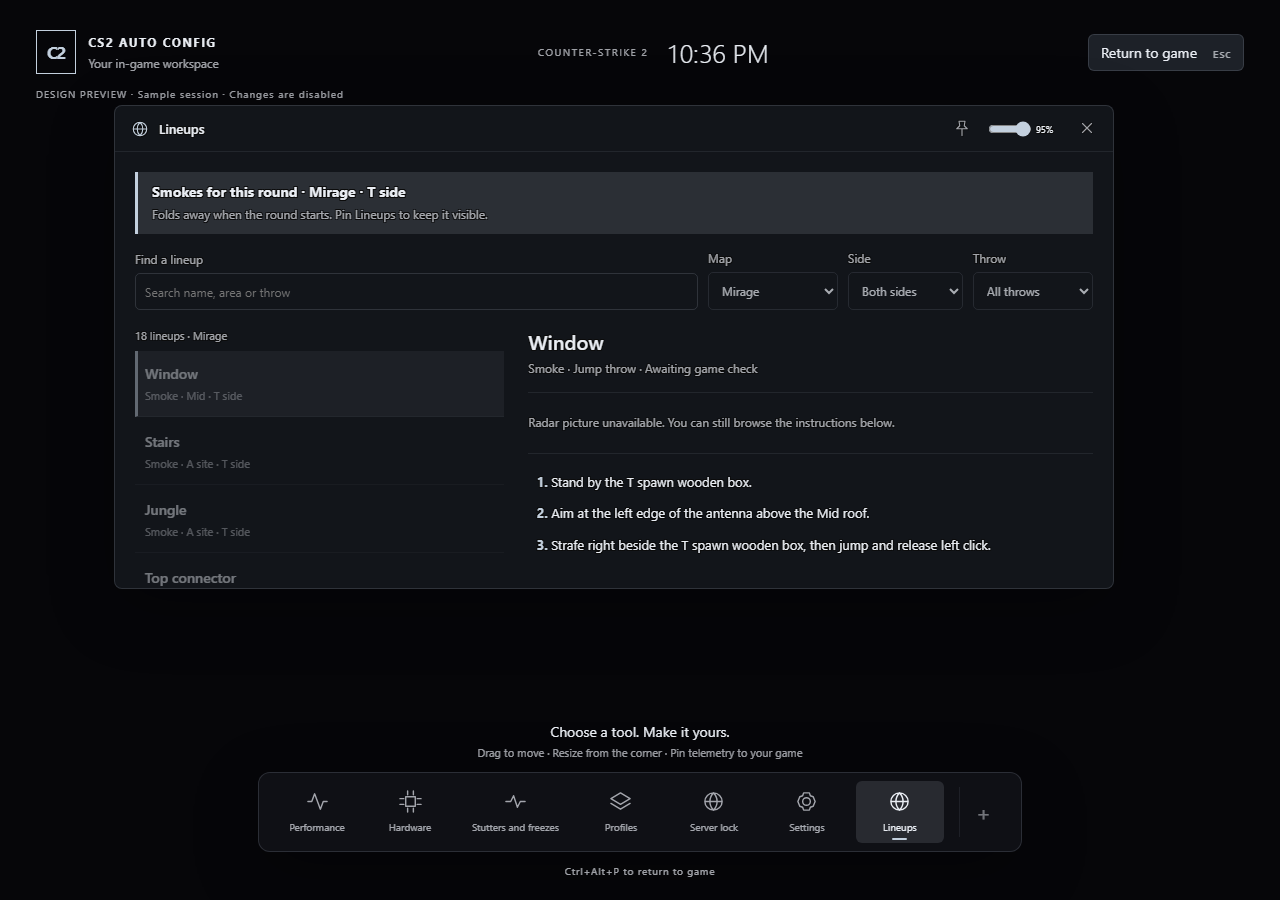
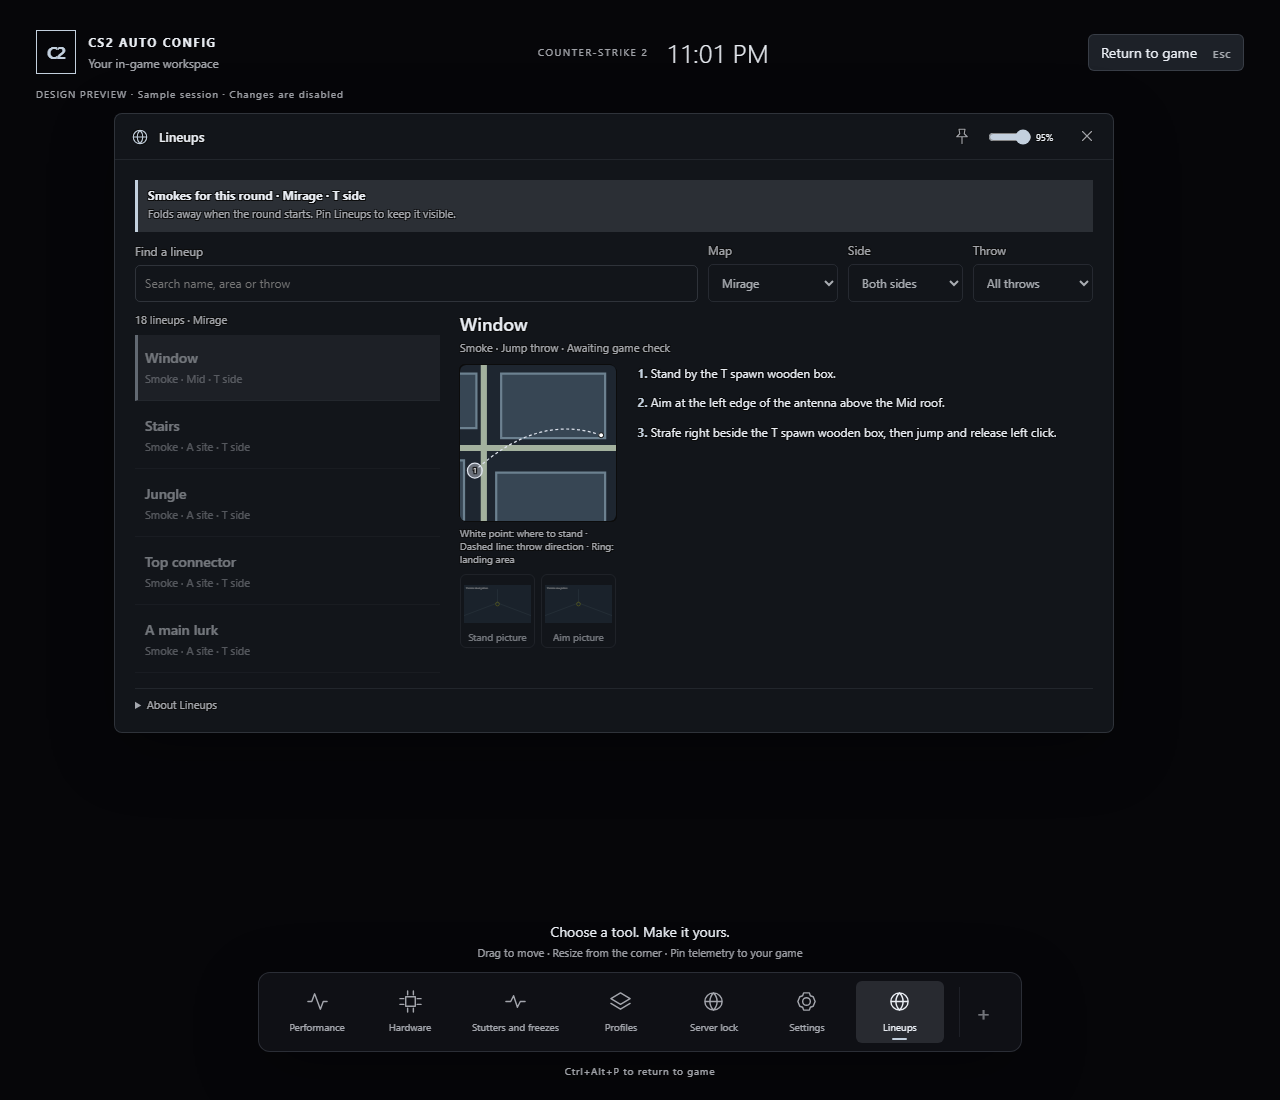
Lineups: card fits its panel; radar beside steps, picture thumbnails

diff --git a/cs2cfg/web/assets/overlay/tools/lineups.css b/cs2cfg/web/assets/overlay/tools/lineups.css
@@ -1,4 +1,28 @@
 .lineups-controls{display:grid;grid-template-columns:minmax(150px,1fr) 130px 115px 120px;gap:10px;align-items:end;margin-bottom:18px}.lineups-controls label{margin:0;display:grid;gap:6px}.lineups-controls input{height:37px}.lineups-grid{display:grid;grid-template-columns:minmax(180px,.85fr) minmax(240px,1.3fr);gap:24px;align-items:start}.lineups-results{display:grid;gap:2px;max-height:420px;overflow:auto}.lineup-row{text-align:left;border:0;border-bottom:1px solid var(--line-soft);border-radius:0;padding:13px 10px;line-height:1.4}.lineup-row[aria-pressed=true]{background:var(--accent-dim)!important;border-left:3px solid var(--accent);padding-left:7px}.lineup-row strong{display:block;font-size:14px;font-weight:600}.lineup-row small{display:block;color:var(--muted);font-size:11px;margin-top:4px}.lineup-detail h4{font-size:20px;margin:0 0 4px;font-weight:600}.lineup-detail .lineup-meta{margin:0 0 14px}.lineup-radar{width:100%;max-height:300px;aspect-ratio:1;display:block;background:var(--bg);border-radius:6px}.lineup-detail ol{padding-left:23px;margin:18px 0;display:grid;gap:12px;line-height:1.5;font-size:13px}.lineup-detail li::marker{color:var(--accent);font-weight:700}.lineup-empty-art{padding:20px 0;border-top:1px solid var(--line-soft);border-bottom:1px solid var(--line-soft)}.lineup-count{font-size:11px;color:var(--muted);margin:0 0 8px}.lineups-about{border-top:1px solid var(--line-soft);margin-top:16px;padding-top:12px;font-size:11px;color:var(--muted)}.lineup-round{border-left:3px solid var(--accent);padding:10px 14px;margin-bottom:16px;background:var(--accent-dim)}.lineup-round strong{display:block;margin-bottom:4px}.lineup-round p{margin:0}.lineup-round button{margin-top:8px}@container(max-width:650px){.lineups-controls{grid-template-columns:1fr 1fr}.lineups-grid{grid-template-columns:1fr}.lineups-results{max-height:190px}.lineup-radar{max-height:260px}}
 
 .lineup-detail{min-width:0;max-height:420px;overflow:auto}.lineup-detail .lineup-radar{width:min(100%,240px);height:auto;max-height:none;aspect-ratio:1;margin:auto}.lineup-detail .lineup-radar+p{font-size:11px;line-height:1.4}
-.lineup-picture-status:empty{display:none}.lineup-picture-status{color:var(--accent);margin:0 0 8px}.lineup-pictures{display:flex;gap:10px}.lineup-thumbnail{padding:3px;flex:1;min-width:0;font-size:11px}.lineup-thumbnail img{width:100%;height:70px;object-fit:contain;display:block}.lineup-picture-large{max-width:90vw;max-height:90vh;background:var(--bg);color:var(--text);border:1px solid var(--accent)}.lineup-picture-large img{display:block;max-width:85vw;max-height:78vh}.lineup-picture-large::backdrop{background:#000b}
+.lineup-picture-status:empty{display:none}.lineup-picture-status{color:var(--accent);margin:0 0 8px}.lineup-pictures{display:flex;gap:10px}.lineup-thumbnail{padding:3px;flex:1;min-width:0;font-size:11px}.lineup-thumbnail img{width:100%;height:70px;object-fit:contain;display:block}.lineup-picture-large{max-width:90vw;max-height:90vh;background:var(--bg);color:var(--ink);border:1px solid var(--accent)}.lineup-picture-large img{display:block;max-width:85vw;max-height:78vh}.lineup-picture-large::backdrop{background:#000b}
+/* Keep the default panel's complete detail in view; only the catalogue scrolls. */
+[data-tool="lineups"] .tool-body{display:flex;flex-direction:column;gap:10px}
+.lineups-controls{margin:0;flex-shrink:0}
+.lineups-grid{grid-template-columns:minmax(220px,.65fr) minmax(440px,1.35fr);gap:20px;flex:1;min-height:0;align-items:stretch}
+.lineups-grid>div:first-child{display:flex;flex-direction:column;min-height:0}
+.lineups-results{max-height:none;min-height:0;overflow:auto}
+.lineup-detail{max-height:none;overflow:visible;min-width:0}
+.lineup-detail h4{font-size:18px}
+.lineup-detail .lineup-meta{font-size:11px;margin:0 0 10px;line-height:1.4}
+.lineup-detail-body{display:grid;grid-template-columns:156px minmax(0,1fr);gap:16px;align-items:start}
+.lineup-detail .lineup-radar{width:156px;height:156px;max-height:none;margin:0}
+.lineup-detail .lineup-radar+p{font-size:10px;line-height:1.3;margin:6px 0}
+.lineup-detail ol{margin:0;padding-left:19px;font-size:12px;line-height:1.45;gap:12px}
+.lineup-empty-art{font-size:11px;padding:8px 0;margin:0!important}
+.lineup-pictures{gap:6px;margin-top:8px}
+.lineup-thumbnail img{height:52px}
+.lineup-thumbnail{font-size:10px}
+.lineups-about{margin:0;padding-top:8px;flex-shrink:0}
+.lineup-round{padding:7px 10px;margin:0;flex-shrink:0;font-size:12px}
+.lineup-round strong{margin:0}
+.lineup-round p{margin:2px 0!important;font-size:11px!important}
+[data-tool="lineups"] .lineup-picture-status{margin:0;flex-shrink:0;font-size:12px}
+@container(max-width:760px){.lineups-grid{grid-template-columns:minmax(150px,.6fr) minmax(260px,1fr);gap:12px}.lineup-detail-body{grid-template-columns:1fr}.lineup-detail .lineup-radar{width:120px;height:120px}}
+@container(max-width:540px){.lineups-grid{display:block;overflow:auto}.lineups-results{max-height:120px}.lineup-detail{margin-top:14px}.lineup-detail-body{grid-template-columns:120px minmax(0,1fr)}.lineup-visual{display:block}}

diff --git a/cs2cfg/web/assets/overlay/tools/lineups.js b/cs2cfg/web/assets/overlay/tools/lineups.js
@@ -27,11 +27,12 @@
   };
   if(root.lineupsState&&root.querySelector('[data-query]')&&!d.map_request){updateRound();if(root.paintPictures)root.paintPictures(d.pictures||{});return;}
   const state=root.lineupsState||={query:'',side:'',kind:'',selected:null,map:d.document?.map||'mirage'};
-  const doc=d.document,rows=doc?.lineups||[];
+  const doc=d.document,rows=doc?.lineups||[];root.pictureImages=d.pictures||{};
   const options=(items,value)=>items.map(([key,label])=>'<option value="'+e(key)+'" '+(key===value?'selected':'')+'>'+e(label)+'</option>').join('');
   root.innerHTML='<p class="lineup-picture-status" role="status"></p><div class="lineup-round" hidden></div><div class="lineups-controls"><label>Find a lineup<input type="text" data-query placeholder="Search name, area or throw" value="'+e(state.query)+'"></label><label>Map<select data-map>'+options((d.maps||[]).map(m=>[m.id,m.name]),state.map)+'</select></label><label>Side<select data-side>'+options([['','Both sides'],['T','T side'],['CT','CT side']],state.side)+'</select></label><label>Throw<select data-kind>'+options([['','All throws'],...Object.entries(types)],state.kind)+'</select></label></div><div class="lineups-grid"><div><div class="lineup-count" aria-live="polite"></div><div class="lineups-results"></div></div><article class="lineup-detail"></article></div><details class="lineups-about"><summary>About Lineups</summary><p>Lineup data: Rene Rebsdorf · CS2-annotations · MIT license. Pictures come from your own CS2 files. Throws await checking in the game.</p></details>';
   const pictures=(images)=>{
    const slot=root.querySelector('.lineup-pictures');if(!slot)return;
+   root.pictureImages=images;
    const pair=images[state.selected]||{};
    slot.innerHTML=['stand','aim'].filter(k=>pair[k]).map(k=>'<button class="lineup-thumbnail" data-picture="'+k+'"><img alt="'+(k==='stand'?'Where to stand':'Where to aim')+'" src="'+e(pair[k])+'"><span>'+(k==='stand'?'Stand picture':'Aim picture')+'</span></button>').join('');
    for(const button of slot.querySelectorAll('[data-picture]'))button.onclick=()=>{
@@ -46,8 +47,8 @@
    root.querySelector('.lineup-count').textContent=found.length+' '+(found.length===1?'lineup':'lineups')+' · '+(doc?.name||'Choose a map');
    const list=root.querySelector('.lineups-results');
    list.innerHTML=found.map((r,i)=>'<button class="lineup-row" data-lineup="'+e(r.id)+'" aria-pressed="'+(r===selected)+'"><strong>'+e(r.name)+'</strong><small>'+e(types[r.type])+' · '+e(r.area+(['A','B'].includes(r.area)?' site':''))+' · '+e(r.side==='both'?'Both sides':r.side+' side')+'</small></button>').join('')||'<p>No lineups match. Try another search or side.</p>';
-   root.querySelector('.lineup-detail').innerHTML=selected?'<h4>'+e(selected.name)+'</h4><p class="lineup-meta">'+e(types[selected.type])+' · '+e(selected.throw[0].toUpperCase()+selected.throw.slice(1))+' · '+(selected.checked?'Checked in game':'Awaiting game check')+'</p>'+radar(d.art,[selected])+'<ol>'+selected.steps.map(s=>'<li>'+e(s)+'</li>').join('')+'</ol><div class="lineup-pictures"></div>':'<p>Choose a lineup to see where to stand and how to throw.</p>';
-   pictures(d.pictures||{});
+   root.querySelector('.lineup-detail').innerHTML=selected?'<h4>'+e(selected.name)+'</h4><p class="lineup-meta">'+e(types[selected.type])+' · '+e(selected.throw[0].toUpperCase()+selected.throw.slice(1))+' · '+(selected.checked?'Checked in game':'Awaiting game check')+'</p><div class="lineup-detail-body"><div class="lineup-visual">'+radar(d.art,[selected])+'<div class="lineup-pictures"></div></div><ol>'+selected.steps.map(s=>'<li>'+e(s)+'</li>').join('')+'</ol></div>':'<p>Choose a lineup to see where to stand and how to throw.</p>';
+   pictures(root.pictureImages||d.pictures||{});
    for(const button of list.querySelectorAll('[data-lineup]'))button.onclick=()=>{state.selected=button.dataset.lineup;paint();};
   };
   root.querySelector('[data-query]').oninput=event=>{state.query=event.target.value;paint();};

diff --git a/tests/test_lineups_pictures.py b/tests/test_lineups_pictures.py
@@ -1,4 +1,4 @@
-"""No real game discovery, config writes, capture, launch or waits."""
+"""Fake-only picture tests; every filesystem write uses a temporary directory."""
 import copy
 import ctypes
 import math
@@ -130,12 +130,6 @@ class Pictures(unittest.TestCase):
         with self.assertRaises(OSError): runner.feed(1,self.trial_state(doc['lineups'][0]))
         self.assertEqual(runner.index,0)
         self.assertTrue(runner.waiting)
-
-    def test_action_never_touches_game_or_disk(self):
-        with mock.patch('pathlib.Path.write_text') as write:
-            self.assertFalse(pictures.request(enabled=False)['available'])
-            self.assertFalse(pictures.request(enabled=True)['available'])
-        write.assert_not_called()
 
     def test_annotations_and_escaping(self):
         frame=(100,100,bytes([0,0,0,255])*10000)
@@ -321,6 +315,43 @@ class CaptureFiles(unittest.TestCase):
         self.assertTrue(pictures.offline_ready(capture))
         self.assertIn('position', capture['player'])
         with self.assertRaises(PermissionError): parse_payload(raw, 'b'*64, pictures=True)
+
+
+class StrictPracticeLaunch(unittest.TestCase):
+    def test_no_argumentless_fallback_for_picture_launch(self):
+        from cs2cfg import launcher
+        with mock.patch.object(launcher, 'steam_exe', return_value=None), mock.patch.object(launcher.os, 'startfile', create=True) as start:
+            with self.assertRaises(launcher.LaunchError):
+                launcher.launch_via_steam('+map de_mirage +exec cs2cfg_lineup_shots', require_args=True)
+            start.assert_not_called()
+
+
+class PictureButton(unittest.TestCase):
+    def test_button_launches_only_from_closed_game_in_temporary_install(self):
+        from cs2cfg import webui
+        import threading
+        import types
+        with tempfile.TemporaryDirectory() as tmp:
+            install = Path(tmp)/'steamapps/common/CS2'
+            cfg = install/'game/csgo/cfg'; cfg.mkdir(parents=True)
+            overlay = types.SimpleNamespace(_lock=threading.RLock(), picture_session=None,
+                _settings={'overlay_enabled': True, 'overlay_tools': ['lineups']},
+                _configure_gsi=mock.Mock(), _gsi_token='a'*64, _gsi_notice='')
+            state = types.SimpleNamespace(overlay=overlay, cs2_install=install, users=[])
+            with mock.patch('cs2cfg.steam.cs2_running', return_value=True), mock.patch('cs2cfg.launcher.launch_via_steam') as launch:
+                self.assertFalse(webui._lineups_pictures(state, {})['available'])
+                self.assertEqual(list(cfg.iterdir()), []); launch.assert_not_called()
+            with mock.patch('cs2cfg.steam.cs2_running', return_value=False), mock.patch('cs2cfg.launcher.launch_via_steam') as launch, mock.patch('cs2cfg.lineups.pictures.game_build', return_value='test'), mock.patch('cs2cfg.paths.user_data_dir', return_value=Path(tmp)/'cache'):
+                self.assertTrue(webui._lineups_pictures(state, {'key': 'F8'})['available'])
+                launch.assert_called_once_with('+map de_mirage +exec cs2cfg_lineup_shots', require_args=True)
+                self.assertEqual(set(p.name for p in cfg.iterdir()), {pictures.SHOTS_CFG, pictures.UNDO_CFG})
+                session = overlay.picture_session
+                session.feed({'provider': {'appid': 730}, 'map': {'name': 'de_mirage', 'mode': 'casual'}})
+                self.assertFalse(session.active); self.assertEqual(list(cfg.iterdir()), [])
+            overlay._settings['overlay_enabled'] = False
+            with mock.patch('cs2cfg.steam.cs2_running') as running:
+                self.assertFalse(webui._lineups_pictures(state, {})['available'])
+                running.assert_not_called()
 
 
 if __name__ == "__main__": unittest.main()

diff --git a/cs2cfg/lineups/pictures.py b/cs2cfg/lineups/pictures.py
@@ -9,18 +9,6 @@ from pathlib import Path
 from . import validate
 from .radar import png
 
-UNAVAILABLE = ('Lineup pictures are not available in this build. '
-               'The app cannot confirm the practice player position and aim from game state yet. '
-               'Use the radar and written steps for now.')
-
-
-def request(*, enabled):
-    """Fail closed, without probing the game, launching it or writing any files."""
-    if not enabled:
-        return {'available': False, 'text': 'Turn on the overlay and Lineups first.'}
-    return {'available': False, 'text': UNAVAILABLE}
-
-
 SHOTS_CFG = 'cs2cfg_lineup_shots.cfg'
 UNDO_CFG = 'cs2cfg_lineup_shots_undo.cfg'
 KEYS = tuple('F' + str(n) for n in range(6, 12))
@@ -182,7 +170,10 @@ class PictureSession:
                            point=(frame[0]//2, frame[1]//2))
             folder = self.root/str(self.index//2)
             folder.mkdir(parents=True, exist_ok=True)
-            (folder/(kind+'.svg')).write_text(svg, encoding='utf-8')
+            target = folder/(kind+'.svg')
+            temporary = target.with_suffix('.tmp')
+            temporary.write_text(svg, encoding='utf-8')
+            temporary.replace(target)
         except (OSError, ValueError):
             self.text = 'Keep the practice game visible. Picture not saved yet; do not press the picture key again.'
             return False
@@ -232,9 +223,8 @@ def pose_matches(document, row, state):
 
     This does NOT establish offline provenance. Do not use it to authorize
     game control. A map/warmup event without position cannot authorize a shot.
-    The production parser intentionally remains unchanged while this trial is
-    disconnected. GSI positions are documented for observers, not a playing
-    practice client; silently treating absent values as zero would hide that.
+    GSI positions may be absent for a playing practice client. Missing pose
+    fails closed; camera coordinates are never supplied by the app.
     """
     try:
         if (state['provider']['appid'] != 730

diff --git a/cs2cfg/webui.py b/cs2cfg/webui.py
@@ -5143,8 +5143,11 @@ def _lineups_pictures(state, body):
                 return {'available': False, 'text': 'Install CS2 in Steam first.'}
             key = body.get('key', 'F8')
             paths = []
+            from . import whoami
+            steam_root = getattr(state, 'steam_root', None)
+            account = whoami.current(steam_root, [u.account_id for u in state.users])[0] if steam_root else None
             for user in state.users:
-                if str(user.account_id) == str(_active_account(state)):
+                if str(user.account_id) == str(account):
                     paths.extend(sorted((user.path/'730/local/cfg').glob('cs2_user_keys*.vcfg')))
             session = PictureSession(load('mirage'), game_build(install), user_data_dir(),
                                      steam.cfg_dir(install), capture_cs2, key)
@@ -5160,8 +5163,9 @@ def _lineups_pictures(state, body):
             return {'available': True, 'text': session.text + ' Open Lineups in the overlay to follow progress. '
                     'Press the picture key once, then wait for the next picture number.'}
         except (OSError, ValueError, KeyError, steam.SteamError, LaunchError):
-            if state.overlay.picture_session and state.overlay.picture_session.active:
-                state.overlay.picture_session.abort()
+            if state.overlay.picture_session:
+                if state.overlay.picture_session.active:
+                    state.overlay.picture_session.abort()
                 state.overlay._configure_gsi(True)
             return {'available': False, 'text': 'Picture setup could not start. Close CS2 and try again.'}
 

diff --git a/cs2cfg/overlay/tools/lineups.py b/cs2cfg/overlay/tools/lineups.py
@@ -28,4 +28,4 @@ def data(state, args=None):
 
 
 TOOL = Tool('lineups', 'Lineups', 'globe', data, refresh_hz=1,
-            default_size=(900, 610), pinnable=True)
+            default_size=(1000, 620), pinnable=True)

diff --git a/docs/lineups/README.md b/docs/lineups/README.md
@@ -11,7 +11,8 @@ The runtime radar reader supports PNG, RGBA8888, BGRA8888 (format 28), BC1 and
 BC3, including LZ4 and Zstandard mip data. BGRA channels are converted to RGBA.
 No Valve art is shipped. Radar pictures come from the player's own install.
 The detail radar is a small square zoomed around the stand and landing points;
-steps remain underneath in a scrollable detail pane. The curve is a direction
+steps sit beside a 156-pixel radar at the default panel size. Two picture
+thumbnails sit below the radar when available; only the catalogue scrolls. The curve is a direction
 guide, not a simulated flight path.
 
 Mid is displayed as Mid; only A and B get the word site. The validator rejects
@@ -41,7 +42,7 @@ a null pitch in every shipped record and check the replacement's model height.
 Settings -> Overlay -> Lineups now offers a picture key (F8 by default) and
 Make lineup pictures. Overlay and Lineups must be saved as enabled first.
 Close CS2 before pressing the button. The app writes only its two picture cfgs
-in the discovered install's game/csgo/cfg folder, reads the active account's
+in the discovered install's game/csgo/cfg folder, reads the signed-in Steam account's
 key config to restore a readable previous binding, and launches Mirage using
 the existing Steam launcher. Its strict argument mode refuses a launch if
 Steam cannot pass the map and cfg; the rungameid URL drops these arguments.
@@ -113,3 +114,14 @@ JavaScript/Chromium results and both cumulative snapshots are recorded under
 tmp/lineups-handoff. No git add, commit, push, PR, merge, release or tag was run.
 Real-game offline reports, camera reports, alias timing, GDI rendering, binding
 restoration, landmarks and throw accuracy remain untested.
+
+Final browser checks passed in Carbon and Daylight at an asserted 1000 x 620
+panel: all 18 detail cards, all three steps, radar, both thumbnails, status
+and larger picture view. The list alone scrolls. Regenerated carbon.png and
+daylight.png use labelled original preview diagrams and fake picture fixtures,
+not Valve artwork. Files with real in their names were untouched.
+
+Passed: node tools/lineups_preview.cjs --check, node tools/overlay_preview.cjs
+--check (six renderers, ten themes), tests/overlay_settings_harness.js,
+tests/overlay_panel_harness.js, tests/status_bar_harness.cjs,
+tests/rgb_settings_harness.js, and git diff --check.
